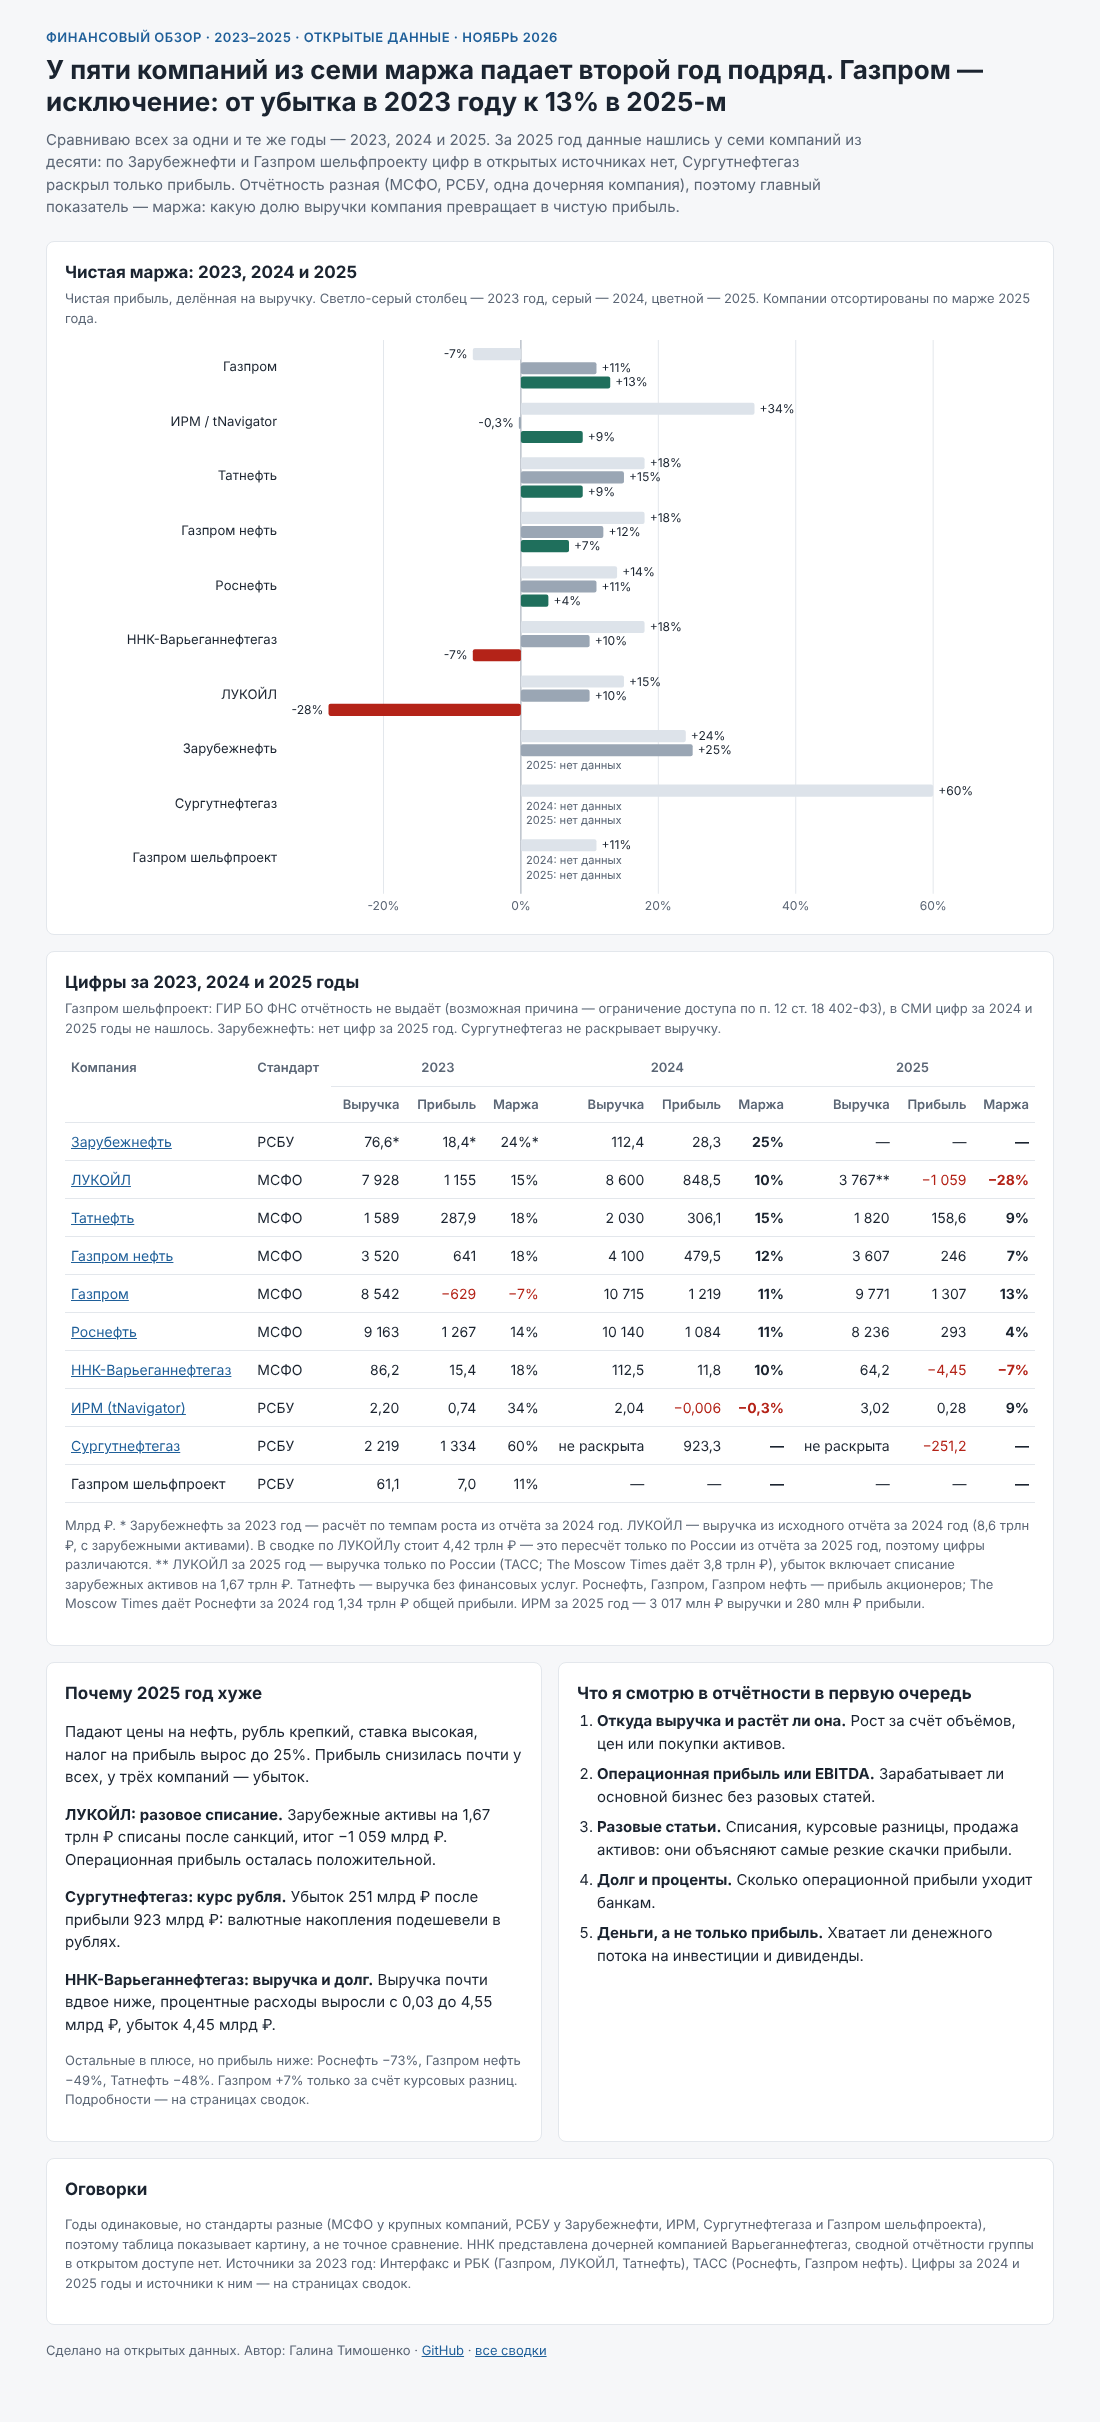
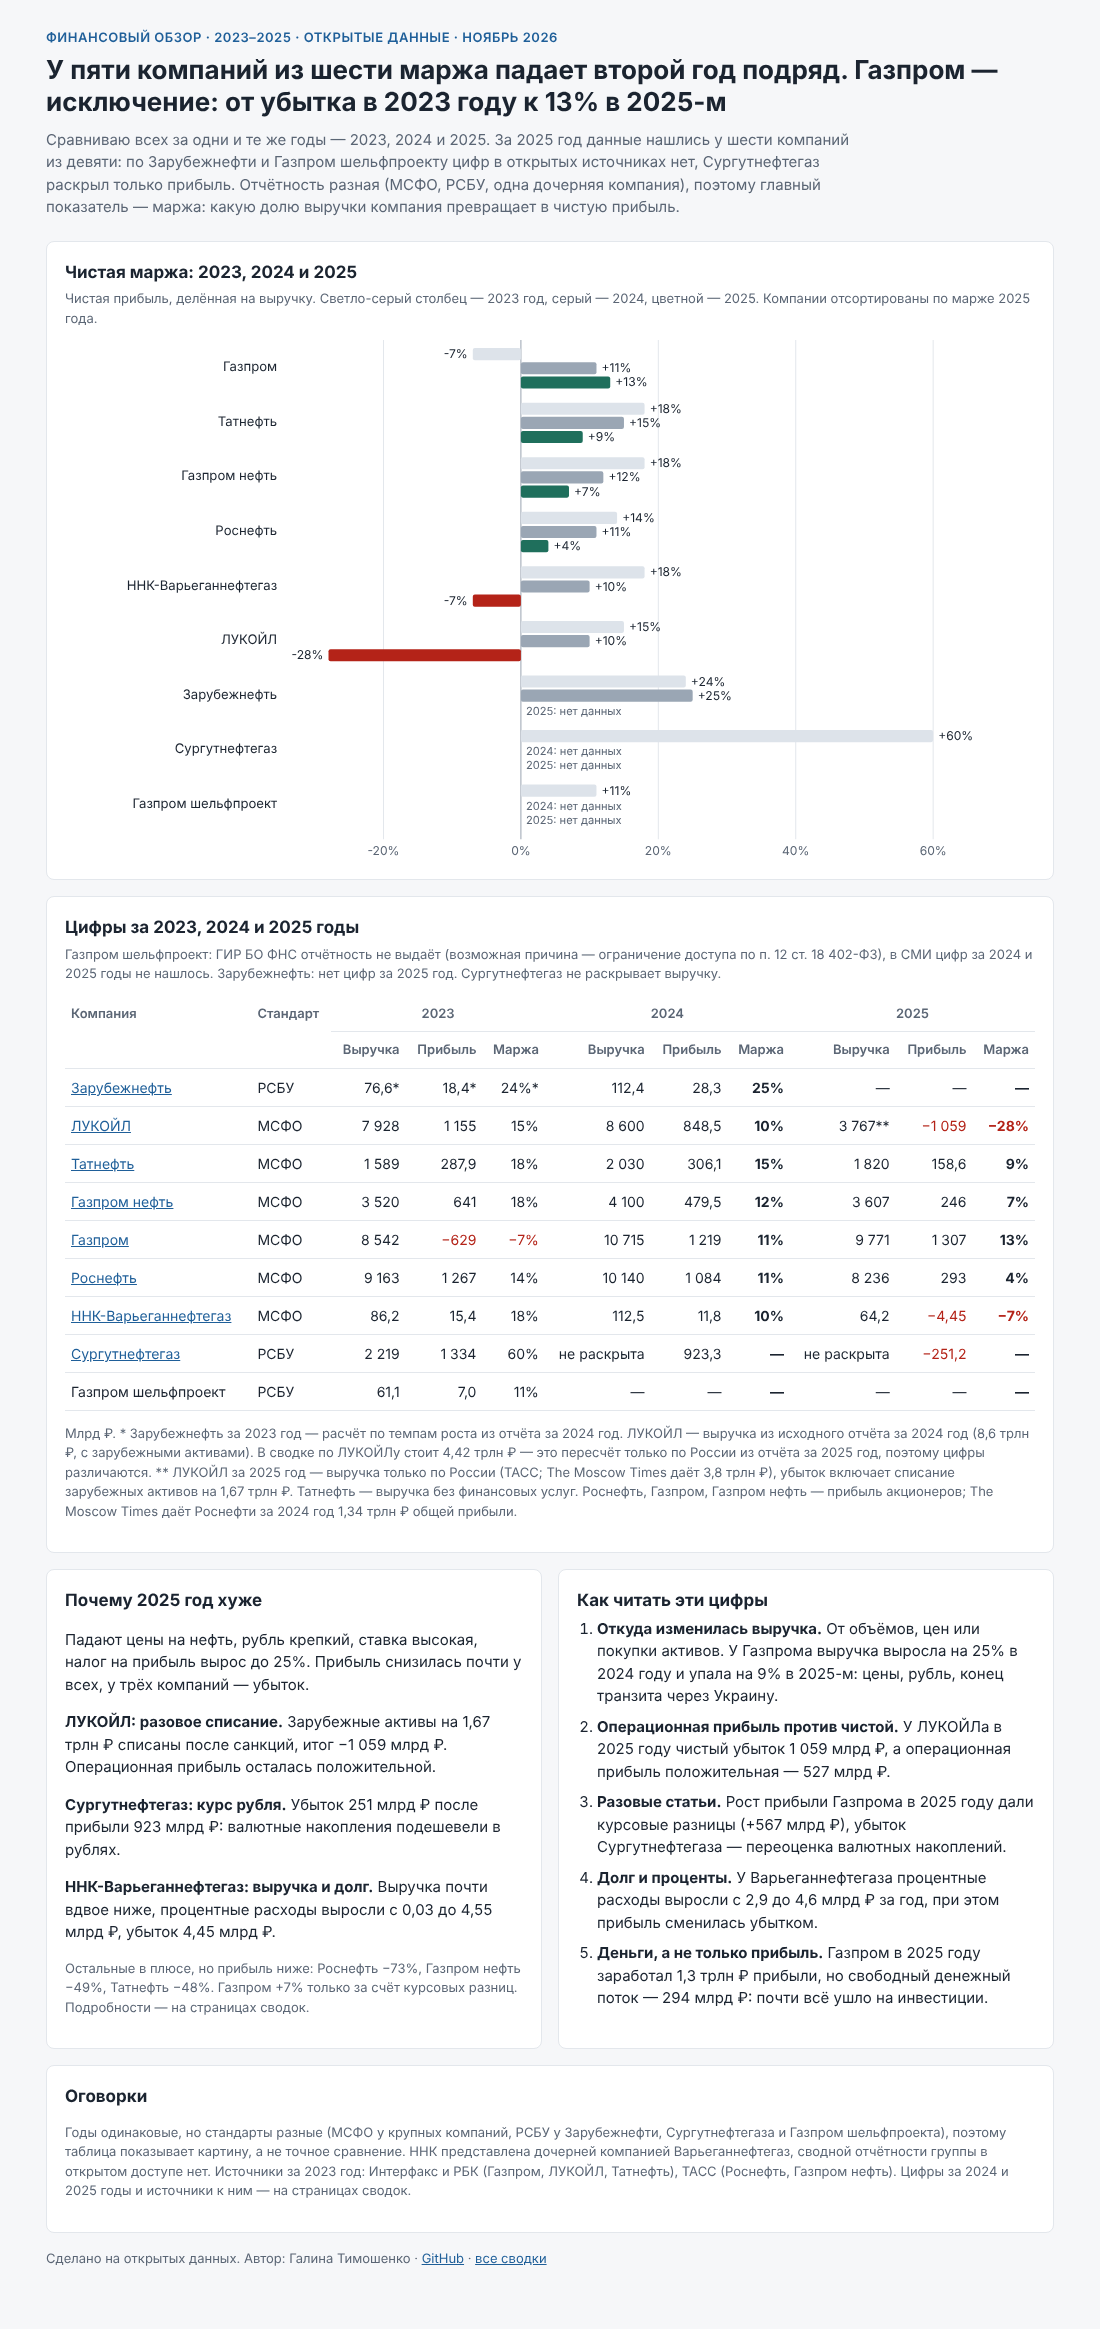
Финансовый обзор: убран ИРМ, переписан блок «Как читать эти цифры»
Claude-Session: https://claude.ai/code/session_01HLBRy9kaRYRXUPTVXYMpj6

diff --git a/finance-review/index.html b/finance-review/index.html
@@ -33,8 +33,8 @@ svg{display:block;width:100%;height:auto}
 <body>
 <div class="wrap">
 <div class="eyebrow">Финансовый обзор · 2023–2025 · открытые данные · ноябрь 2026</div>
-<h1>У пяти компаний из семи маржа падает второй год подряд. Газпром — исключение: от убытка в 2023 году к 13% в 2025-м</h1>
-<p class="lead">Сравниваю всех за одни и те же годы — 2023, 2024 и 2025. За 2025 год данные нашлись у семи компаний из десяти: по Зарубежнефти и Газпром шельфпроекту цифр в открытых источниках нет, Сургутнефтегаз раскрыл только прибыль. Отчётность разная (МСФО, РСБУ, одна дочерняя компания), поэтому главный показатель — маржа: какую долю выручки компания превращает в чистую прибыль.</p>
+<h1>У пяти компаний из шести маржа падает второй год подряд. Газпром — исключение: от убытка в 2023 году к 13% в 2025-м</h1>
+<p class="lead">Сравниваю всех за одни и те же годы — 2023, 2024 и 2025. За 2025 год данные нашлись у шести компаний из девяти: по Зарубежнефти и Газпром шельфпроекту цифр в открытых источниках нет, Сургутнефтегаз раскрыл только прибыль. Отчётность разная (МСФО, РСБУ, одна дочерняя компания), поэтому главный показатель — маржа: какую долю выручки компания превращает в чистую прибыль.</p>
 
 <div class="card">
  <h2>Чистая маржа: 2023, 2024 и 2025</h2>
@@ -55,11 +55,10 @@ svg{display:block;width:100%;height:auto}
   <tr><td><a href="../gazprom/">Газпром</a></td><td>МСФО</td><td class="n">8 542</td><td class="n"><span class="neg">−629</span></td><td class="n"><span class="neg">−7%</span></td><td class="n">10 715</td><td class="n">1 219</td><td class="n"><b>11%</b></td><td class="n">9 771</td><td class="n">1 307</td><td class="n"><b>13%</b></td></tr>
   <tr><td><a href="../rosneft/">Роснефть</a></td><td>МСФО</td><td class="n">9 163</td><td class="n">1 267</td><td class="n">14%</td><td class="n">10 140</td><td class="n">1 084</td><td class="n"><b>11%</b></td><td class="n">8 236</td><td class="n">293</td><td class="n"><b>4%</b></td></tr>
   <tr><td><a href="../nnk/">ННК-Варьеганнефтегаз</a></td><td>МСФО</td><td class="n">86,2</td><td class="n">15,4</td><td class="n">18%</td><td class="n">112,5</td><td class="n">11,8</td><td class="n"><b>10%</b></td><td class="n">64,2</td><td class="n"><span class="neg">−4,45</span></td><td class="n"><b><span class="neg">−7%</span></b></td></tr>
-  <tr><td><a href="../tnavigator/">ИРМ (tNavigator)</a></td><td>РСБУ</td><td class="n">2,20</td><td class="n">0,74</td><td class="n">34%</td><td class="n">2,04</td><td class="n"><span class="neg">−0,006</span></td><td class="n"><b><span class="neg">−0,3%</span></b></td><td class="n">3,02</td><td class="n">0,28</td><td class="n"><b>9%</b></td></tr>
   <tr><td><a href="../surgutneftegas/">Сургутнефтегаз</a></td><td>РСБУ</td><td class="n">2 219</td><td class="n">1 334</td><td class="n">60%</td><td class="n">не раскрыта</td><td class="n">923,3</td><td class="n"><b>—</b></td><td class="n">не раскрыта</td><td class="n"><span class="neg">−251,2</span></td><td class="n"><b>—</b></td></tr>
   <tr><td>Газпром шельфпроект</td><td>РСБУ</td><td class="n">61,1</td><td class="n">7,0</td><td class="n">11%</td><td class="n">—</td><td class="n">—</td><td class="n"><b>—</b></td><td class="n">—</td><td class="n">—</td><td class="n"><b>—</b></td></tr>
  </table></div>
- <p class="foot">Млрд ₽. * Зарубежнефть за 2023 год — расчёт по темпам роста из отчёта за 2024 год. ЛУКОЙЛ — выручка из исходного отчёта за 2024 год (8,6 трлн ₽, с зарубежными активами). В сводке по ЛУКОЙЛу стоит 4,42 трлн ₽ — это пересчёт только по России из отчёта за 2025 год, поэтому цифры различаются. ** ЛУКОЙЛ за 2025 год — выручка только по России (ТАСС; The Moscow Times даёт 3,8 трлн ₽), убыток включает списание зарубежных активов на 1,67 трлн ₽. Татнефть — выручка без финансовых услуг. Роснефть, Газпром, Газпром нефть — прибыль акционеров; The Moscow Times даёт Роснефти за 2024 год 1,34 трлн ₽ общей прибыли. ИРМ за 2025 год — 3 017 млн ₽ выручки и 280 млн ₽ прибыли.</p>
+ <p class="foot">Млрд ₽. * Зарубежнефть за 2023 год — расчёт по темпам роста из отчёта за 2024 год. ЛУКОЙЛ — выручка из исходного отчёта за 2024 год (8,6 трлн ₽, с зарубежными активами). В сводке по ЛУКОЙЛу стоит 4,42 трлн ₽ — это пересчёт только по России из отчёта за 2025 год, поэтому цифры различаются. ** ЛУКОЙЛ за 2025 год — выручка только по России (ТАСС; The Moscow Times даёт 3,8 трлн ₽), убыток включает списание зарубежных активов на 1,67 трлн ₽. Татнефть — выручка без финансовых услуг. Роснефть, Газпром, Газпром нефть — прибыль акционеров; The Moscow Times даёт Роснефти за 2024 год 1,34 трлн ₽ общей прибыли.</p>
 </div>
 
 <div class="grid2">
@@ -72,26 +71,26 @@ svg{display:block;width:100%;height:auto}
   <p class="foot">Остальные в плюсе, но прибыль ниже: Роснефть −73%, Газпром нефть −49%, Татнефть −48%. Газпром +7% только за счёт курсовых разниц. Подробности — на страницах сводок.</p>
  </div>
  <div class="card">
-  <h2>Что я смотрю в отчётности в первую очередь</h2>
+  <h2>Как читать эти цифры</h2>
   <ol class="q">
-   <li><b>Откуда выручка и растёт ли она.</b> Рост за счёт объёмов, цен или покупки активов.</li>
-   <li><b>Операционная прибыль или EBITDA.</b> Зарабатывает ли основной бизнес без разовых статей.</li>
-   <li><b>Разовые статьи.</b> Списания, курсовые разницы, продажа активов: они объясняют самые резкие скачки прибыли.</li>
-   <li><b>Долг и проценты.</b> Сколько операционной прибыли уходит банкам.</li>
-   <li><b>Деньги, а не только прибыль.</b> Хватает ли денежного потока на инвестиции и дивиденды.</li>
+   <li><b>Откуда изменилась выручка.</b> От объёмов, цен или покупки активов. У Газпрома выручка выросла на 25% в 2024 году и упала на 9% в 2025-м: цены, рубль, конец транзита через Украину.</li>
+   <li><b>Операционная прибыль против чистой.</b> У ЛУКОЙЛа в 2025 году чистый убыток 1 059 млрд ₽, а операционная прибыль положительная — 527 млрд ₽.</li>
+   <li><b>Разовые статьи.</b> Рост прибыли Газпрома в 2025 году дали курсовые разницы (+567 млрд ₽), убыток Сургутнефтегаза — переоценка валютных накоплений.</li>
+   <li><b>Долг и проценты.</b> У Варьеганнефтегаза процентные расходы выросли с 2,9 до 4,6 млрд ₽ за год, при этом прибыль сменилась убытком.</li>
+   <li><b>Деньги, а не только прибыль.</b> Газпром в 2025 году заработал 1,3 трлн ₽ прибыли, но свободный денежный поток — 294 млрд ₽: почти всё ушло на инвестиции.</li>
   </ol>
  </div>
 </div>
 
 <div class="card">
  <h2>Оговорки</h2>
- <p class="foot">Годы одинаковые, но стандарты разные (МСФО у крупных компаний, РСБУ у Зарубежнефти, ИРМ, Сургутнефтегаза и Газпром шельфпроекта), поэтому таблица показывает картину, а не точное сравнение. ННК представлена дочерней компанией Варьеганнефтегаз, сводной отчётности группы в открытом доступе нет. Источники за 2023 год: Интерфакс и РБК (Газпром, ЛУКОЙЛ, Татнефть), ТАСС (Роснефть, Газпром нефть). Цифры за 2024 и 2025 годы и источники к ним — на страницах сводок.</p>
+ <p class="foot">Годы одинаковые, но стандарты разные (МСФО у крупных компаний, РСБУ у Зарубежнефти, Сургутнефтегаза и Газпром шельфпроекта), поэтому таблица показывает картину, а не точное сравнение. ННК представлена дочерней компанией Варьеганнефтегаз, сводной отчётности группы в открытом доступе нет. Источники за 2023 год: Интерфакс и РБК (Газпром, ЛУКОЙЛ, Татнефть), ТАСС (Роснефть, Газпром нефть). Цифры за 2024 и 2025 годы и источники к ним — на страницах сводок.</p>
 </div>
 
 <p class="foot">Сделано на открытых данных. Автор: Галина Тимошенко · <a href="https://github.com/GalaTimoshenko">GitHub</a> · <a href="../">все сводки</a></p>
 </div>
 <script>
-const D=[['Газпром',-7,11,13],['ИРМ / tNavigator',34,-0.3,9],['Татнефть',18,15,9],['Газпром нефть',18,12,7],['Роснефть',14,11,4],['ННК-Варьеганнефтегаз',18,10,-7],['ЛУКОЙЛ',15,10,-28],['Зарубежнефть',24,25,null],['Сургутнефтегаз',60,null,null],['Газпром шельфпроект',11,null,null]];
+const D=[['Газпром',-7,11,13],['Татнефть',18,15,9],['Газпром нефть',18,12,7],['Роснефть',14,11,4],['ННК-Варьеганнефтегаз',18,10,-7],['ЛУКОЙЛ',15,10,-28],['Зарубежнефть',24,25,null],['Сургутнефтегаз',60,null,null],['Газпром шельфпроект',11,null,null]];
 const NS='http://www.w3.org/2000/svg';
 function el(t,a,p){const e=document.createElementNS(NS,t);for(const k in a)e.setAttribute(k,a[k]);p&&p.appendChild(e);return e}
 function tx(p,x,y,s,a){const e=el('text',Object.assign({x,y,'font-size':13,fill:'#5b6675','font-family':'inherit'},a||{}),p);e.textContent=s;return e}
